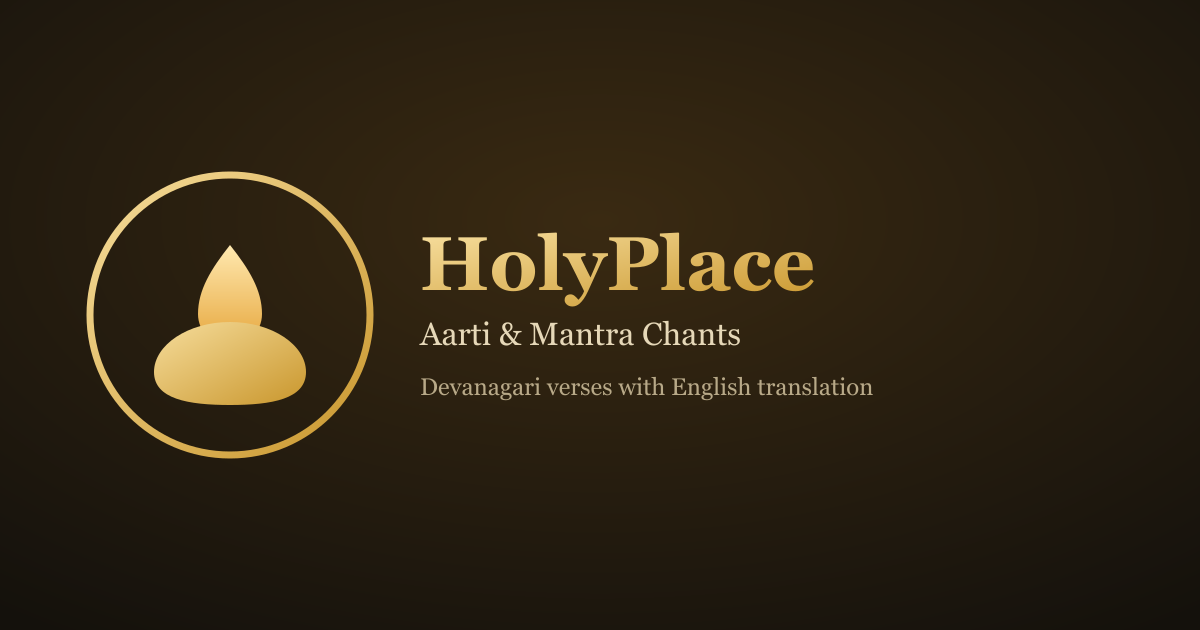
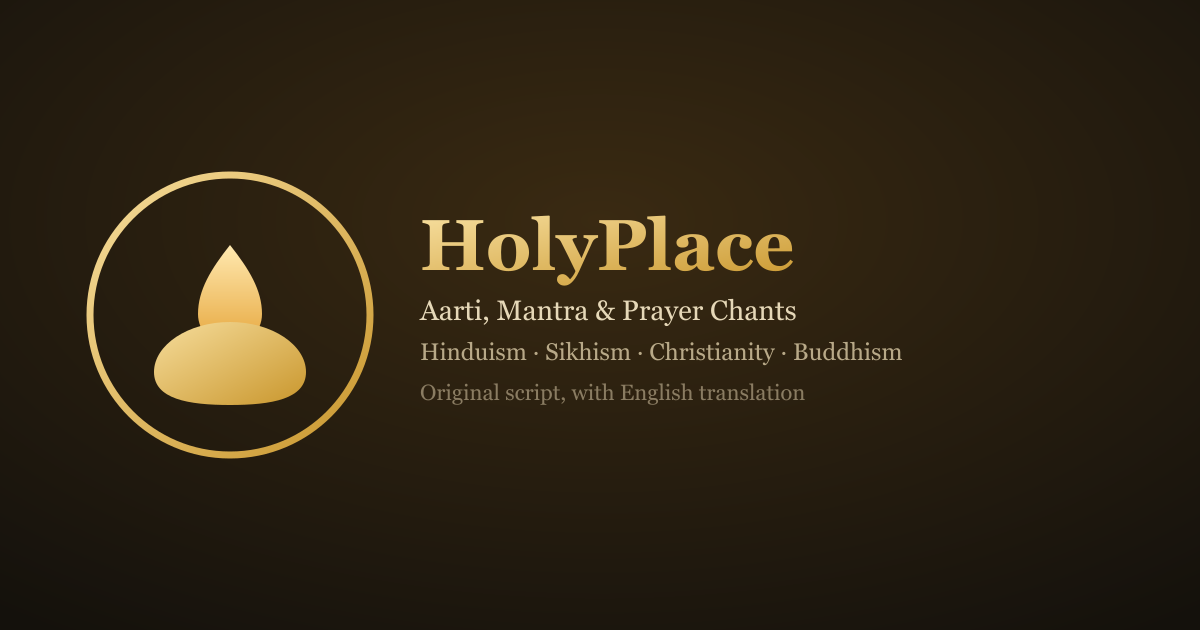
Refresh SEO title/description/OG image for multi-tradition scope
Title, meta description, OG/Twitter tags, and WebSite JSON-LD still said
"Hindu deities" from the original single-tradition build — stale since
Sikhism/Christianity/Buddhism were added. Updated to reflect all four
traditions for search-result relevance. Regenerated og-image.png from the
updated og-source.svg (same temp sharp install/uninstall pattern as the
original favicon generation, not left in package.json).

Favicons, apple-touch-icon, manifest, robots.txt, and llms.txt were already
in place from the earlier SEO pass and verified still live in production —
the "globe icon" report is most likely browser/Google favicon cache lag,
not a missing asset; Search Console is also still on the placeholder
verification token, which slows how fast Google re-crawls and picks up
icon/title changes.

Changed region(s): [[0.3392, 0.3317, 0.7708, 0.573], [0.3392, 0.6032, 0.74, 0.6333]]

diff --git a/index.html b/index.html
@@ -19,10 +19,10 @@
     <meta name="google-site-verification" content="REPLACE_WITH_GSC_TOKEN" />
 
     <meta name="viewport" content="width=device-width, initial-scale=1.0" />
-    <meta name="description" content="Aarti and mantra chants for the Hindu deities, in Devanagari with English translation." />
+    <meta name="description" content="Aarti, mantra, chalisa, and prayer chants across Hinduism, Sikhism, Christianity, and Buddhism — in the original script with English translation." />
     <meta name="robots" content="index, follow" />
     <link rel="canonical" href="https://holyplace.vercel.app/" />
-    <title>HolyPlace — Aarti & Mantra Chants</title>
+    <title>HolyPlace — Aarti, Mantra & Prayer Chants Across Traditions</title>
 
     <!-- Favicons -->
     <link rel="icon" type="image/svg+xml" href="/favicon.svg" />
@@ -39,15 +39,15 @@
          in CLAUDE.md: crawlers that don't run JS only ever see these values). -->
     <meta property="og:type" content="website" />
     <meta property="og:site_name" content="HolyPlace" />
-    <meta property="og:title" content="HolyPlace — Aarti & Mantra Chants" />
-    <meta property="og:description" content="Aarti and mantra chants for the Hindu deities, in Devanagari with English translation." />
+    <meta property="og:title" content="HolyPlace — Aarti, Mantra & Prayer Chants Across Traditions" />
+    <meta property="og:description" content="Aarti, mantra, chalisa, and prayer chants across Hinduism, Sikhism, Christianity, and Buddhism — in the original script with English translation." />
     <meta property="og:url" content="https://holyplace.vercel.app/" />
     <meta property="og:image" content="https://holyplace.vercel.app/og-image.png" />
     <meta property="og:image:width" content="1200" />
     <meta property="og:image:height" content="630" />
     <meta name="twitter:card" content="summary_large_image" />
-    <meta name="twitter:title" content="HolyPlace — Aarti & Mantra Chants" />
-    <meta name="twitter:description" content="Aarti and mantra chants for the Hindu deities, in Devanagari with English translation." />
+    <meta name="twitter:title" content="HolyPlace — Aarti, Mantra & Prayer Chants Across Traditions" />
+    <meta name="twitter:description" content="Aarti, mantra, chalisa, and prayer chants across Hinduism, Sikhism, Christianity, and Buddhism — in the original script with English translation." />
     <meta name="twitter:image" content="https://holyplace.vercel.app/og-image.png" />
 
     <script type="application/ld+json">
@@ -55,6 +55,7 @@
         "@context": "https://schema.org",
         "@type": "WebSite",
         "name": "HolyPlace",
+        "description": "Aarti, mantra, chalisa, and prayer chants across Hinduism, Sikhism, Christianity, and Buddhism, in the original script with English translation.",
         "url": "https://holyplace.vercel.app/"
       }
     </script>
